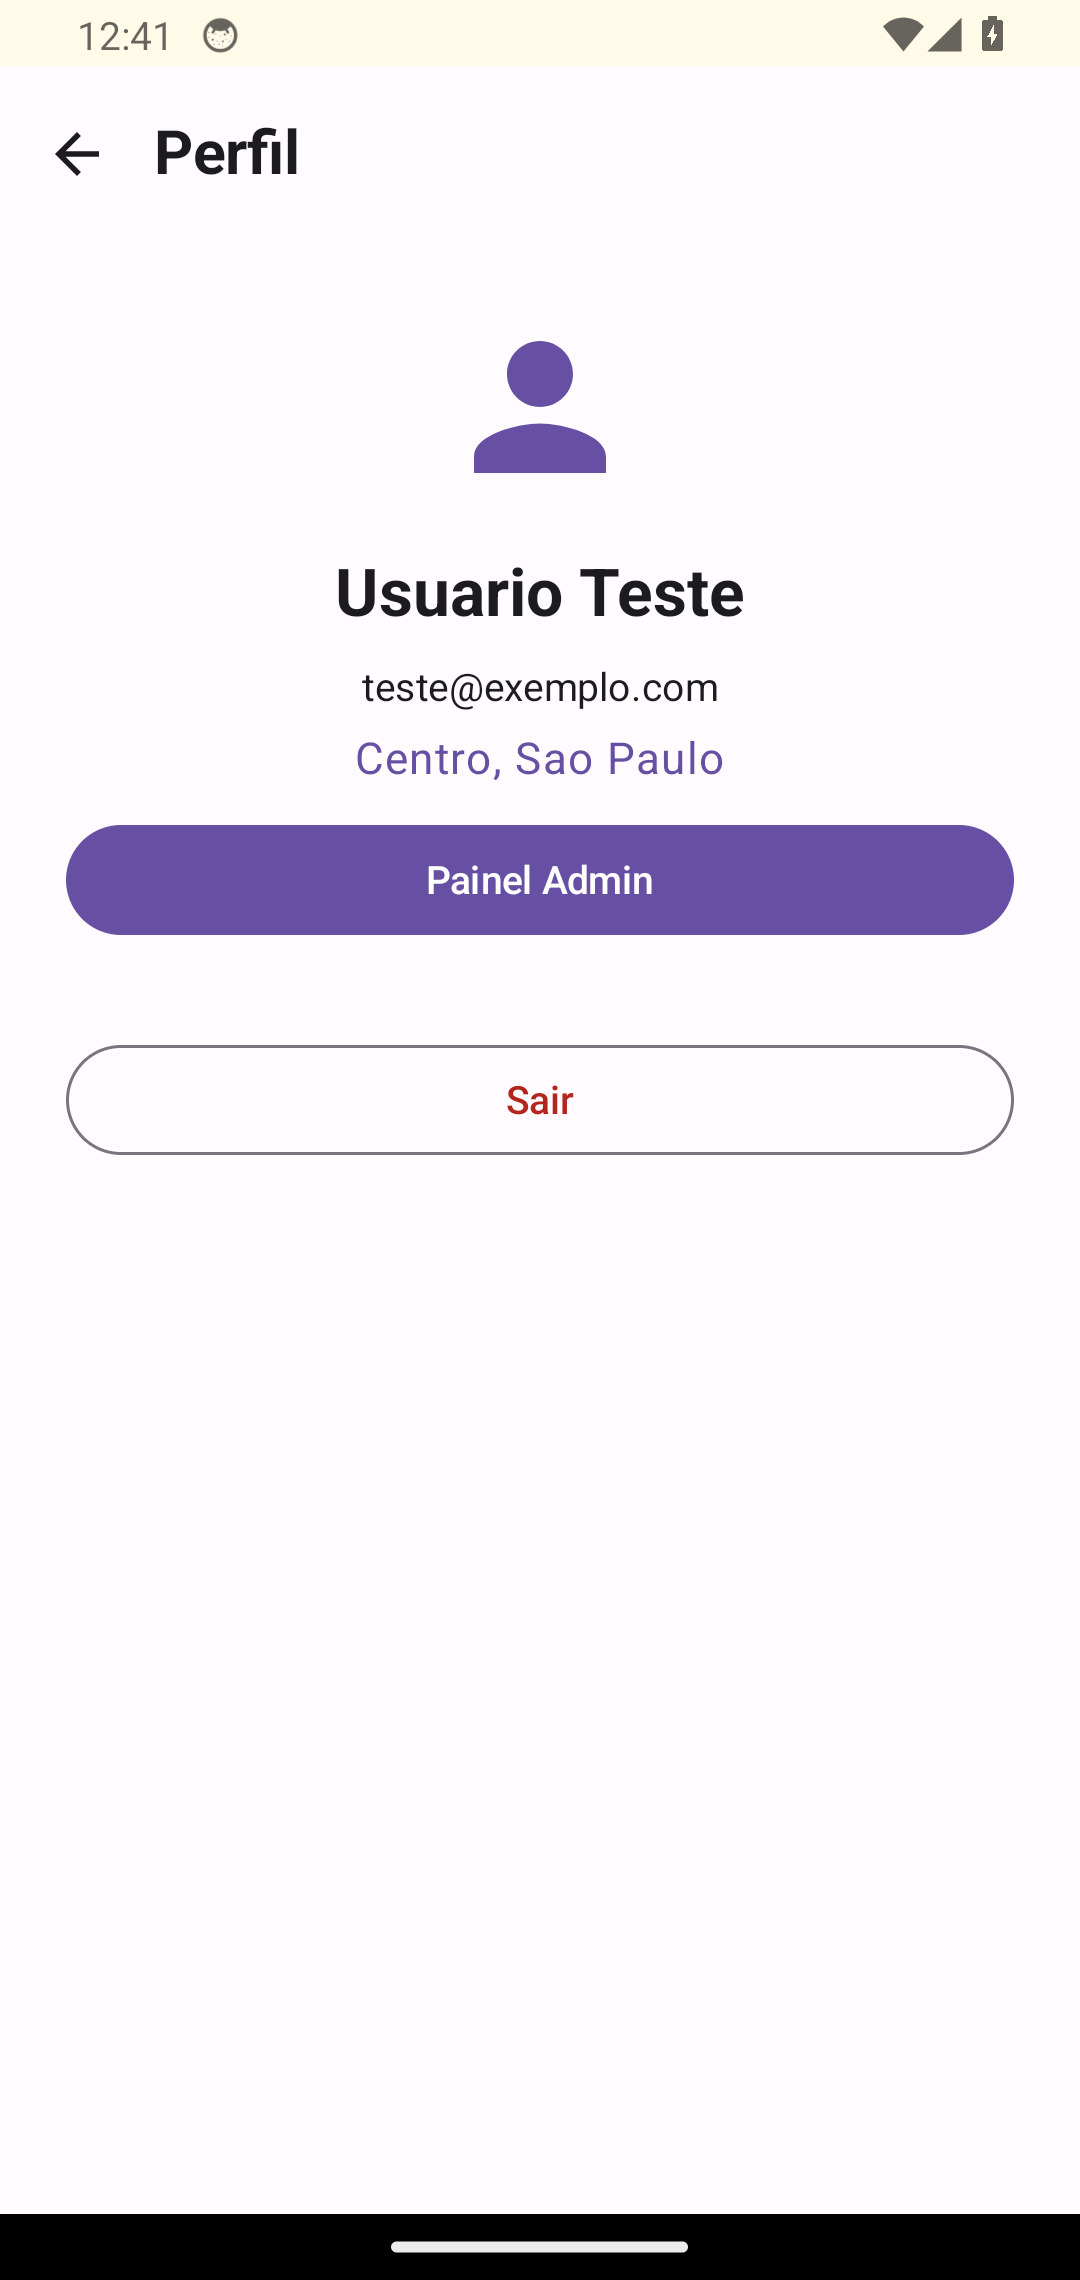
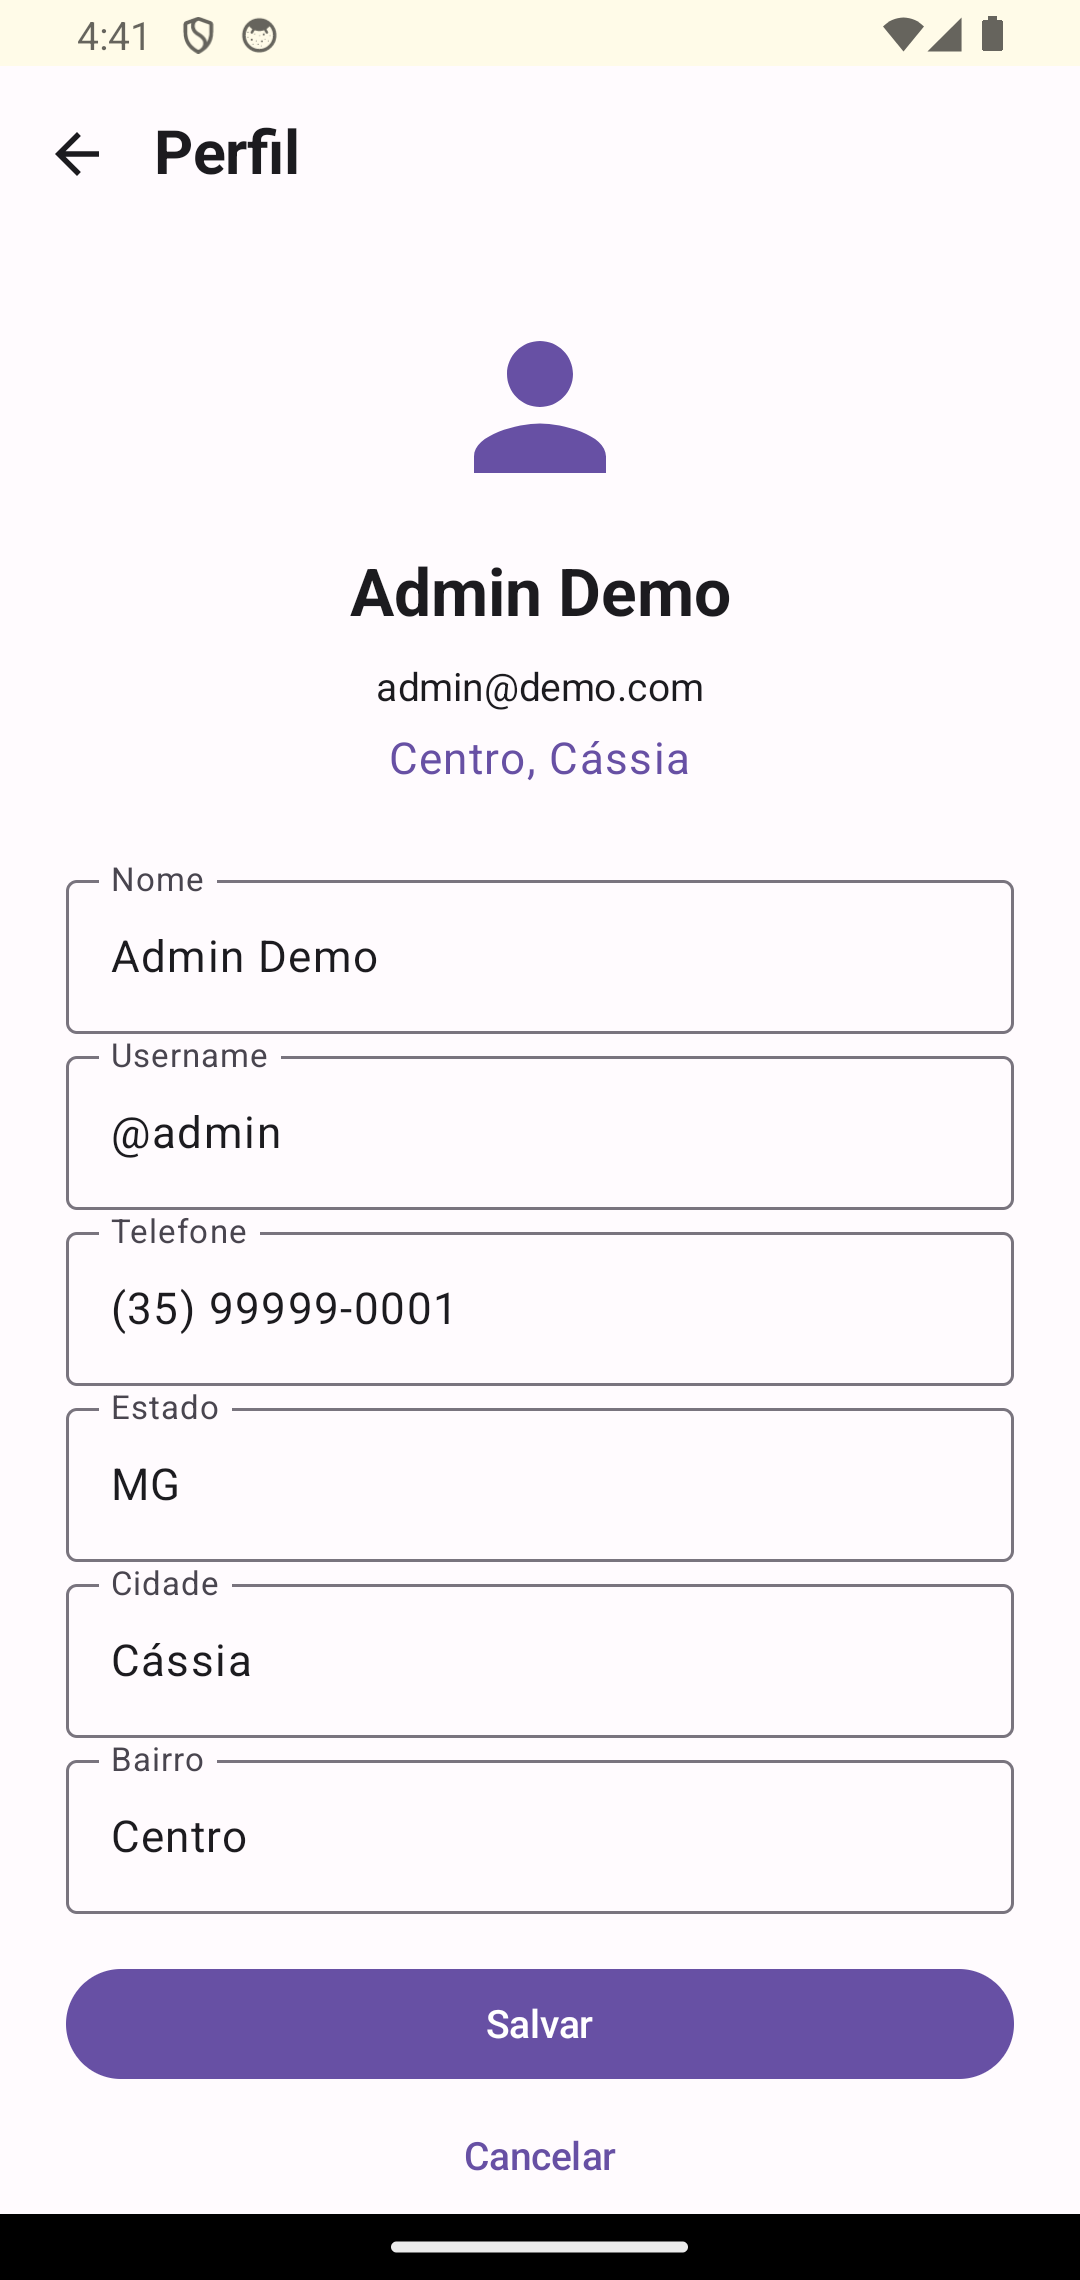
docs: aviso modo demo e capturas perfil/admin

diff --git a/README.md b/README.md
@@ -79,7 +79,8 @@ Capturas do app rodando no emulador Android 14 (1080×2280).
 | <img src="docs/screenshots/10-cadastro.png" alt="Cadastro" width="240"> **Cadastro** | <img src="docs/screenshots/03-mapa.png" alt="Mapa" width="240"> **Mapa** |
 | <img src="docs/screenshots/04-reportar.png" alt="Nova ocorrência" width="240"> **Nova ocorrência** | <img src="docs/screenshots/05-reportar-midia.png" alt="Mídia e envio" width="240"> **Mídia e envio** |
 | <img src="docs/screenshots/06-lista.png" alt="Lista" width="240"> **Lista** | <img src="docs/screenshots/07-detalhes.png" alt="Detalhes" width="240"> **Detalhes** |
-| <img src="docs/screenshots/01-perfil.png" alt="Perfil" width="240"> **Perfil** | <img src="docs/screenshots/02-admin.png" alt="Painel Admin" width="240"> **Painel Admin** |
+| <img src="docs/screenshots/01-perfil.png" alt="Perfil" width="240"> **Perfil (admin)** | <img src="docs/screenshots/02-admin.png" alt="Painel Admin" width="240"> **Admin — ocorrências** |
+| <img src="docs/screenshots/08-admin-usuarios.png" alt="Admin — usuários" width="240"> **Admin — usuários** | |
 
 ## Regras de Segurança (Firestore & Storage)
 
@@ -90,7 +91,7 @@ As regras de segurança estão em `firestore.rules`:
 |---|---|
 | **Leitura de ocorrências** | Qualquer usuário autenticado |
 | **Criar ocorrência** | Usuário autenticado (userId = auth.uid) |
-| **Atualizar ocorrência** | **Apenas o autor** da ocorrência (userId) **OU admin** (custom claims) |
+| **Atualizar ocorrência** | **Apenas o autor** da ocorrência (userId) **OU admin** (custom claim `admin` ou `role: "admin"`) |
 | **Deletar ocorrência** | **Apenas o autor** da ocorrência (userId) **OU admin** |
 
 #### Estados das ocorrências
@@ -120,15 +121,16 @@ Para habilitar o painel administrativo, configure Custom Claims no Firebase:
 admin.auth().setCustomUserClaims(uid, { admin: true })
 ```
 
-Isso permite que o usuário com UID especificado altere/remova ocorrências de outros usuários e acesse a coleção de moderação.
+Isso permite que o usuário com UID especificado altere/remova ocorrências de outros usuários e acesse a coleção de moderação. Também é possível ser admin pelo campo `role: "admin"` no documento `usuarios/{uid}`; as regras impedem que o próprio usuário altere esse campo para se promover.
 
 ## Funcionalidades de Administração
 
 ### Painel Admin (`/admin`)
-- Listagem de todas as ocorrências
+- Abas **Ocorrências** e **Usuários**
+- Listagem de todas as ocorrências (todas as situações, inclusive rejeitado) e de todos os usuários (nome, e-mail e função)
 - Alteração de estados: registrado, em verificação, confirmado, resolvido, rejeitado
 - Exclusão de ocorrências com limpeza automática de mídia
-- Acesso via navegação ou rota direta
+- Acesso restrito a administradores, via Perfil → **Painel Admin**
 
 ### Limpeza de mídia
 Ao excluir uma ocorrência via Admin, o sistema também remove:
@@ -139,6 +141,9 @@ Ao excluir uma ocorrência via Admin, o sistema também remove:
 
 ### google-services.json (protótipo)
 Se você não tiver um `google-services.json` próprio, não precisa fornecer nada: o build gera `app/google-services.json` automaticamente a partir do template `app/google-services.example.json` (com chave fictícia `DUMMY`). Isso basta para rodar o **debug**, que aponta para os emuladores locais (Auth `9099`, Firestore `8081`, Storage `9199`).
+
+> [!IMPORTANT]
+> **Modo demo (somente debug):** sem `app/google-services.json` real **ou** sem os emuladores locais rodando, o app detecta a ausência do Firebase e entra automaticamente no **modo demo**. Entre com `admin@demo.com` / `Demo@123` (ou `morador@demo.com` / `Demo@123`). O demo tem 5 ocorrências em Cássia/Passos e usuários de exemplo; tudo fica **apenas em memória** — ao fechar o app, volta ao padrão do repositório. A build de **release nunca** usa demo e exige Firebase real.
 
 Para gerar um release, substitua o arquivo pelo `google-services.json` real do seu projeto Firebase. Se a chave fictícia ainda estiver presente, o build falha com a mensagem: `Release exige um google-services.json real (sem DUMMY)`.
 
